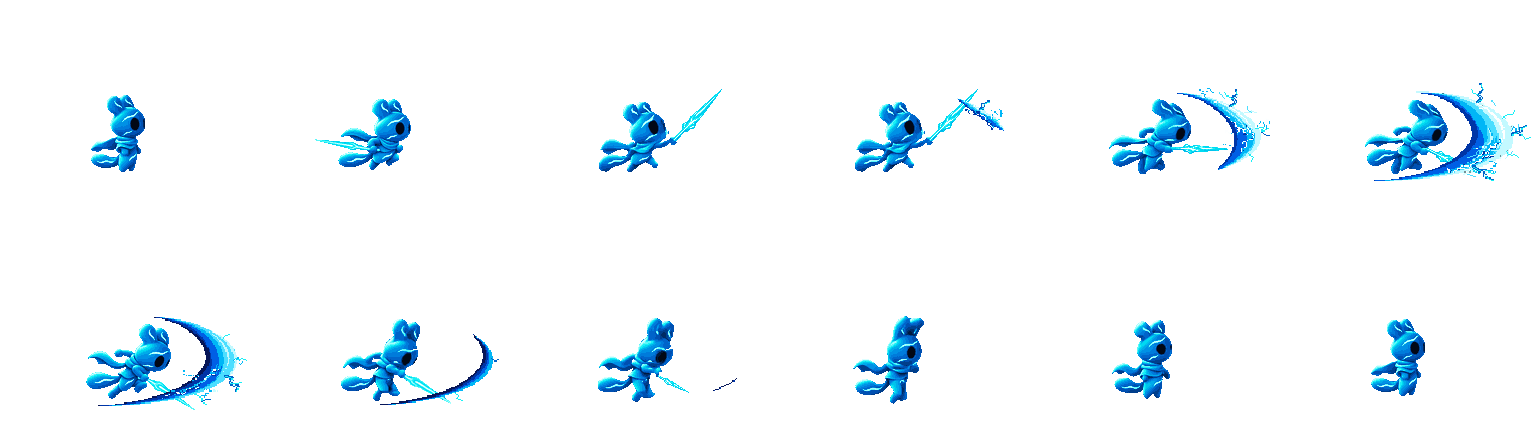
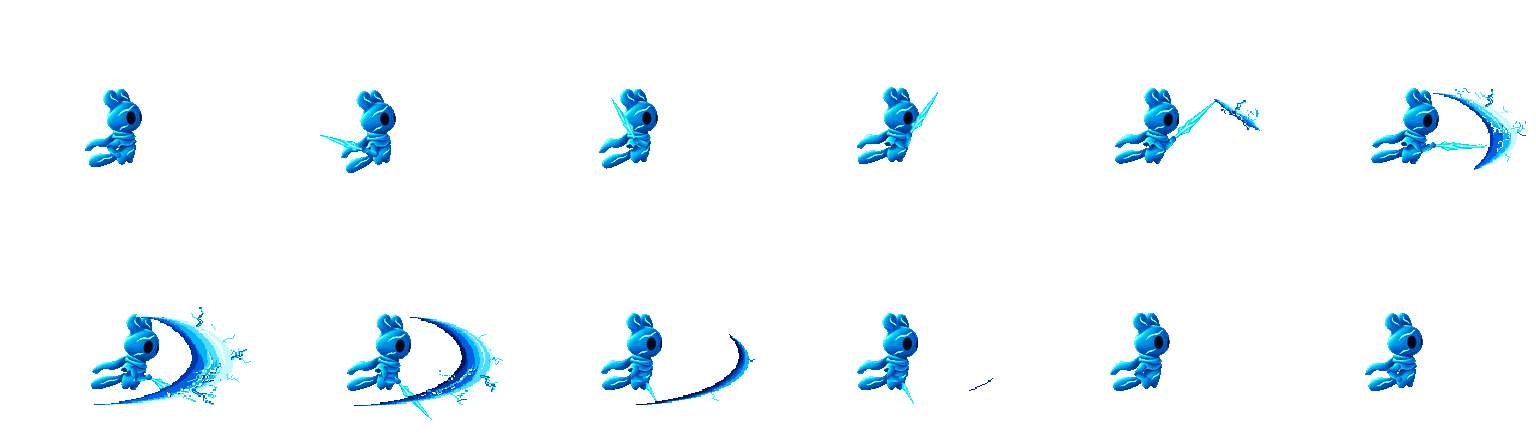
fix(art): 같은 손과 관절 궤적으로 공중 검격 재제작
워든의 정면·측면 원화를 하나의 어깨-팔꿈치-손 관절 연결로 다시 구성했다. 검의 같은 손잡이 기준을 연결하고 아래 베기의 왼쪽 마무리에서 검날이 팔뚝 반대로 뒤집히던 자세를 수정했다.

관절선과 합성 시트에서 공중 일반 12프레임과 아래 베기 10프레임을 순서대로 보았다. 공중 검격의 첫 방전이 검끝과 떨어져 보이던 구간을 보정했다. 게임 실행과 자동화 테스트는 요청 범위에 따라 진행하지 않았다.

diff --git a/assets/warden/attack-source/grip_rig.py b/assets/warden/attack-source/grip_rig.py
@@ -1,0 +1,177 @@
+"""Pose the original Warden parts around a single weapon hand and grip socket."""
+
+from dataclasses import dataclass
+from math import atan2, cos, hypot, radians, sin
+from pathlib import Path
+
+import numpy as np
+from PIL import Image, ImageDraw
+from scipy.ndimage import distance_transform_edt, map_coordinates
+
+ART = Path(__file__).resolve().parents[3] / 'art/warden'
+SS = 3
+Y, X = np.mgrid[:480, :480]
+COLORS = '020816 00193E 002B64 003E8B 0050B1 0064CA 007BDB 0091E5 00ABEA 00C3ED 00DAF2 19EFF6 5BF7F9 A3FDFD DCFFFF FFFFFF'.split()
+PALETTE = Image.new('P', (1, 1))
+PALETTE.putpalette(list(bytes.fromhex(''.join(COLORS + [COLORS[-1]] * (256 - len(COLORS))))))
+
+
+@dataclass(frozen=True)
+class Key:
+    view: str
+    pelvis: tuple[int, int]
+    pitch: int
+    head: int
+    shoulder: int
+    upper_arm: int
+    forearm: int
+    blade: int
+    length: int
+    cloth: int
+    legs: int
+
+
+# Shoulder and elbow angles drive one hand. Blade angles follow that grip.
+AIR = (
+    Key('side',(126,154),-3,-1,0,160,40,0,0,3,-18),
+    Key('side',(126,155),-8,3,-2,69,-158,-161,49,-9,-25),
+    Key('side',(128,154),0,-1,2,20,-153,-120,51,-14,-28),
+    Key('side',(129,153),8,-4,3,35,-75,-56,53,-21,-22),
+    Key('side',(131,154),12,-5,4,40,-51,-42,58,-24,-19),
+    Key('side',(132,154),16,-5,4,50,-24,2,54,-35,-15),
+    Key('side',(132,156),17,-5,3,74,-7,28,54,-39,-15),
+    Key('side',(131,156),11,-3,2,92,7,49,52,-27,-16),
+    Key('side',(129,155),6,-2,1,115,10,62,29,-12,-11),
+    Key('side',(127,154),1,0,0,140,27,0,0,-7,-15),
+    Key('side',(126,154),-2,0,0,155,35,0,0,0,-18),
+)
+DOWN = (
+    Key('side',(103,96),-2,0,0,155,35,0,0,4,-14),
+    Key('side',(103,96),-4,1,1,69,-50,-17,50,-6,-21),
+    Key('front',(104,96),4,-2,3,35,-25,24,53,-13,-26),
+    Key('front',(104,97),0,1,3,24,70,73,54,-17,-28),
+    Key('front',(103,97),-7,3,0,42,132,151,54,-29,-25),
+    Key('front',(103,97),-5,3,-1,45,156,163,45,-35,-21),
+    Key('front',(103,96),-2,1,0,25,155,166,25,-20,-17),
+    Key('side',(104,96),3,-1,0,120,53,0,0,-10,-18),
+    Key('side',(104,96),0,0,0,140,43,0,0,-3,-14),
+    Key('side',(103,96),-2,0,0,155,35,0,0,3,-14),
+)
+
+def ellipse_mask(size, box):
+    alpha = Image.new('L', size)
+    ImageDraw.Draw(alpha).ellipse(box, fill=255)
+    return alpha
+
+
+def prepare_master(relative, near_arm, head_cut):
+    src = Image.open(ART / relative).convert('RGBA').resize((480,480),Image.Resampling.LANCZOS)
+    pixels = np.array(src)
+    red,green,blue = pixels[:,:,:3].transpose(2,0,1)
+    pixels[(red>166)&(blue>155)&(green<127)] = 0
+    art = Image.fromarray(pixels.copy())
+    mask = Image.new('1',art.size)
+    ImageDraw.Draw(mask).polygon(near_arm,fill=1)
+    covered = np.asarray(mask)
+    _,nearest=distance_transform_edt(covered,return_indices=True)
+    pixels[covered]=pixels[tuple(nearest[:,covered])]
+    head = art.copy()
+    head.putalpha(Image.fromarray(np.where(Y <= head_cut, np.asarray(art.getchannel('A')), 0).astype('uint8')))
+    pixels[Y < head_cut - 7] = 0
+    return pixels,head,art
+
+
+SIDE, SIDE_HEAD, SIDE_ART = prepare_master(
+    'shading-restore/proportion-fix-v1/warden-proportion-restored.png',
+    [(232,322),(258,322),(264,337),(259,350),(247,359),(232,355),(227,337)],266)
+FRONT, FRONT_HEAD, _ = prepare_master(
+    'reference/master-source.png',
+    [(163,317),(192,321),(188,345),(179,361),(166,366),(158,355),(158,334)],258)
+
+# All limb pieces use the original arm shading, with one continuous glove over the grip.
+ARM = SIDE_ART.crop((233,323,262,359))
+ARM.putalpha(ellipse_mask(ARM.size,(1,0,26,35)))
+HAND = SIDE_ART.crop((239,332,259,352))
+HAND.putalpha(ellipse_mask(HAND.size,(1,2,18,18)))
+SWORD = Image.open(ART/'reference/energy-sword-master-v2.png').convert('RGBA')
+SWORD.putalpha(SWORD.getchannel('A').point(lambda a:255 if a>=194 else 0))
+GRIP = (419,887)
+TIP = (1386,79)
+
+
+def place(image, origin, position, angle, scale, size):
+    ox,oy=origin
+    x,y=(k*SS for k in position)
+    c,s=cos(angle)/(scale*SS),sin(angle)/(scale*SS)
+    return image.transform((size[0]*SS,size[1]*SS),Image.Transform.AFFINE,
+                           (c,s,ox-c*x-s*y,-s,c,oy+s*x-c*y),Image.Resampling.BICUBIC)
+
+
+def point(p, origin, target, angle, scale):
+    x,y=((a-b)*scale for a,b in zip(p,origin,strict=True))
+    c,s=cos(angle),sin(angle)
+    return target[0]+c*x-s*y,target[1]+s*x+c*y
+
+
+def end_point(start, length, angle):
+    theta = radians(angle)
+    return start[0] + cos(theta) * length, start[1] + sin(theta) * length
+
+
+def arm_piece(start,end,width,size):
+    dx,dy=end[0]-start[0],end[1]-start[1]
+    length=hypot(dx,dy)+3.4
+    # Raster tube adapted from the original arm, with overlap at elbow and wrist.
+    part=ARM.resize((round(width*SS),round(length*SS)),Image.Resampling.LANCZOS)
+    return place(part,(part.width/2,1.7*SS),start,atan2(dy,dx)-radians(90),1/SS,size)
+
+
+def render(key,size):
+    side=key.view=='side'
+    pixels,head,hip,neck,shoulder,scale=(
+        (SIDE,SIDE_HEAD,(276,369),(272,267),(249,316),.22) if side else
+        (FRONT,FRONT_HEAD,(245,375),(237,255),(175,313),.197)
+    )
+    pitch=radians(key.pitch)
+    rear=np.clip((228-X)/115,0,1)*np.clip((Y-285)/35,0,1)
+    foot=np.clip((Y-350)/80,0,1)*(1-rear)
+    sy=Y+rear*key.cloth-foot*key.legs
+    sx=X+foot*key.legs*.30
+    part=Image.fromarray(np.stack([map_coordinates(pixels[:,:,c],(sy,sx),order=1) for c in range(4)],axis=-1))
+    frame=place(part,hip,key.pelvis,pitch,scale,size)
+    head_center=point(neck,hip,key.pelvis,pitch,scale)
+    frame.alpha_composite(place(head,neck,head_center,pitch+radians(key.head),scale,size))
+    mount=point(shoulder,hip,key.pelvis,pitch,scale)
+    mount=(mount[0]+key.shoulder,mount[1])
+    elbow=end_point(mount,12,key.upper_arm)
+    hand=end_point(elbow,13,key.forearm)
+    # Both the wrist and the weapon use this one socket. It never changes arms.
+    frame.alpha_composite(arm_piece(mount,elbow,7.5,size))
+    frame.alpha_composite(arm_piece(elbow,hand,6.9,size))
+    theta=radians(key.blade)
+    tip=None
+    if key.length:
+        wrist_turn = (key.blade - key.forearm + 180) % 360 - 180
+        assert abs(wrist_turn) <= 60, (key, wrist_turn)
+        vx,vy=TIP[0]-GRIP[0],TIP[1]-GRIP[1]
+        scale_weapon=key.length/hypot(vx,vy)
+        frame.alpha_composite(place(SWORD,GRIP,hand,theta-atan2(vy,vx),scale_weapon,size))
+        tip=(hand[0]+cos(theta)*key.length,hand[1]+sin(theta)*key.length)
+    frame.alpha_composite(place(HAND,(10,10),hand,theta,.34,size))
+    reduced=frame.resize(size,Image.Resampling.LANCZOS)
+    alpha=reduced.getchannel('A').point(lambda a:255 if a>145 else 0)
+    reduced=reduced.convert('RGB').quantize(palette=PALETTE,dither=Image.Dither.NONE).convert('RGBA')
+    reduced.putalpha(alpha)
+    far_mount=point((309,317),hip,key.pelvis,pitch,scale)
+    return reduced, (key.pelvis,head_center,far_mount,mount,elbow,hand,tip)
+
+
+if __name__ == '__main__':
+    from build import WARDEN, sheet
+
+    for keys, size, columns, path in (
+        (AIR, (256, 224), 6, WARDEN / 'attack-source/air-poses.png'),
+        (DOWN, (208, 208), 5, WARDEN / 'downstrike-source/poses.png'),
+    ):
+        frames = [render(key, size)[0] for key in keys]
+        sheet(frames, size, columns).save(path)

diff --git a/assets/warden/attack-source/build.py b/assets/warden/attack-source/build.py
@@ -8,7 +8,7 @@ from PIL import Image
 ROOT = Path(__file__).resolve().parents[3]
 WARDEN = ROOT / 'assets/warden'
 ART = ROOT / 'art/warden'
-AIR_TIMES = [0, 18, 82, 120, 140, 160, 180, 200, 220, 246, 274, 300]
+AIR_TIMES = [0, 18, 68, 84, 100, 120, 140, 160, 180, 220, 256, 300]
 SIZE = (256, 224)
 PIVOT = (128, 136)
 COLUMNS = 6

diff --git a/assets/warden/README.md b/assets/warden/README.md
@@ -8,7 +8,7 @@
 | run_left.png | art/warden/provisional-approved/run-v4/run_left/sheet.png | 618ef3377b2682ee6d15ab4052a208f041562adcaed406a0361977ca7460940e |
 | run_right.png | art/warden/provisional-approved/run-v4/run_right/sheet.png | c29d16562b7df8a8ec927b031ef1589bdf6252467afb648f1537af60977fc3aa |
 | attack.png | `art/warden/ground-step-slash-v1` 몸체 위에 `art/warden/ground-crescent-discharge-refined/slash.png`의 Pixelfx 분기 방전 초승달을 합성 | 0fc07afb21d30d24d5b37127a44baa3bc838225107085329f30bf53f2f110073 |
-| air_attack.png | `attack-source/air-poses.png`에 낮은 준비 자세와 검 회수를 넣고, 타격 프레임은 검 원화로 정리해 지상 검격의 pixelfx와 합성. [보정 원화](../../art/warden/air-slash-arcs/silhouette/) | b0246fdef31f83796007e687d17d262f794a7433ee85bff8174ffbaafaaaad0c |
+| air_attack.png | `attack-source/grip_rig.py`에서 워든 원화의 어깨·팔꿈치·손을 잇고 검 원화의 손잡이를 고정해 몸체 시트를 제작. `attack-source/build.py`에서 지상 검격의 pixelfx를 합성 | 7e2a8e2c4523d4f0a8974216988c0f08561493bec820174a519aae735db437d6 |
 | prepare_idle_left.png | art/warden/provisional-approved/dash-eye-cape-v1/prepare_idle_left/sheet.png | efb9df7c2c976ace57b8a0d2448dac120bf4616e414edaa58bac91e12ae1ce1e |
 | prepare_idle_right.png | art/warden/provisional-approved/dash-eye-cape-v1/prepare_idle_right/sheet.png | 3ba433a4573f4cf45a085579ab10bf5a355c72e528446974023bc0fff342c3d0 |
 | prepare_run_left.png | art/warden/provisional-approved/dash-eye-cape-v1/prepare_run_left/sheet.png | f4db13401e9771a363a726689ad5ab573b1e519955e07a8eba3e757c5023f4f5 |
